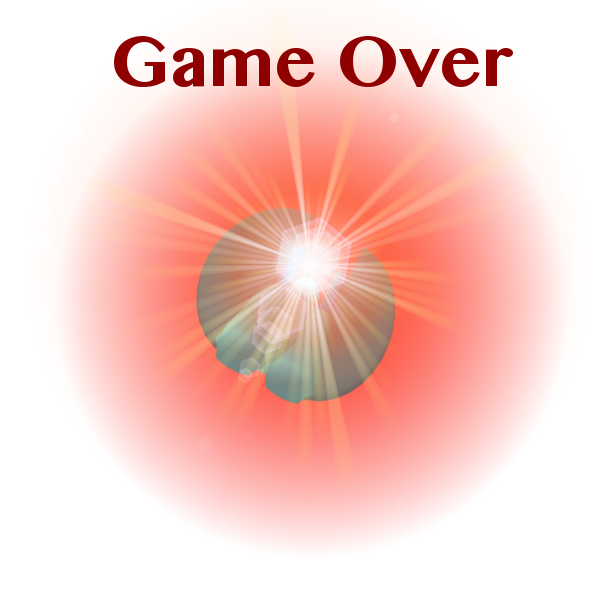
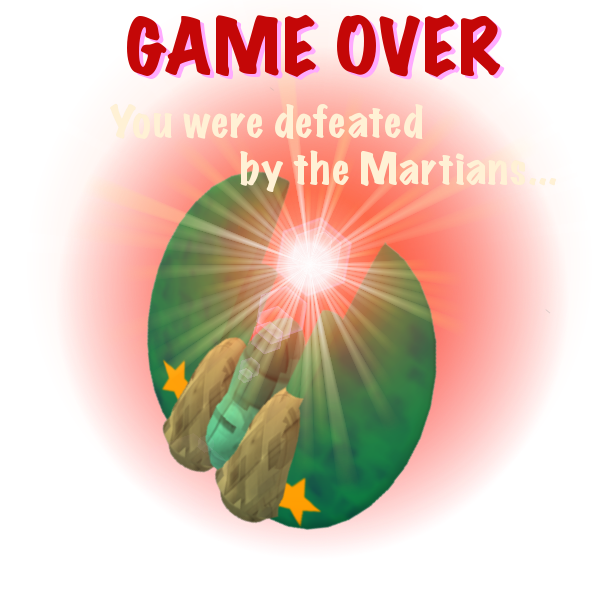
some updates on win/death screens

diff --git a/index.html b/index.html
@@ -48,7 +48,8 @@
 		        W: forward<br/>
 		        S: reverse <br/>
 		        Mouse: rotate<br/>
-		        Click: shoot
+		        Click: shoot<br/>
+		        T: on/off minimap
 		    </p>
 		</div>
 		<!--sidebar-->
@@ -111,7 +112,7 @@
 		                <p>World 3 - 200 crystals</p>
 		            </button>
 		            <button id = "win" class = "purchase" type="button" onclick="winScreen();">
-		                <p>End of War ! - 200 crystals</p>
+		                <p>Back to Earth ! - 200 crystals</p>
 		            </button>
 		            <div id="levelInfo">
 		            </div>
@@ -171,15 +172,14 @@
             </div>
             <div class="float">
                 <img src="resources/warp_gate.png" />
-            </div>
-		    
-		    
+            </div>		    
 		</div>
 		
 		
 	</div>
 	<!--deathscreen-->
     <div id = "deathScreen">
+        <img src="resources/deathScreen.png" />
         <div>
 			<button class="btnReload" type="button" onclick="location.reload()">Restart</button>
 		</div>
@@ -187,6 +187,7 @@
     
     <!--winscreen-->
     <div id = "winScreen">
+        <img src="resources/winScreen.png" />
         <div>
 			<button class="btnReload" type="button" onclick="location.reload()">Play Again</button>
 		</div>

diff --git a/style.css b/style.css
@@ -336,7 +336,7 @@ div#startMenu button#btnStart {
     display:none;
     width: 100%;
     height: 100%;
-    background: url("resources/deathScreen.png") no-repeat center #000;
+    background: #000;
     text-align: center;
 }
 
@@ -346,14 +346,15 @@ div#startMenu button#btnStart {
 	height: 50px;
 	font-size: 20px;
 	font-weight: bold;
-	margin-top: 550px;
+	padding: 10px;
 }
 
 #winScreen{
     display:none;
     width: 100%;
     height: 100%;
-    background: url("resources/winScreen.png") no-repeat center #000;
+/*     background: url("resources/winScreen.png") no-repeat center #000; */
+    background: #000;
     text-align: center;
 }
 

diff --git a/scripts/Game.js b/scripts/Game.js
@@ -255,6 +255,7 @@ function updateSidebar(){
 //used by updateSidebar()
 function updateUpgradeInfo(element, enable)
 {
+    
     var upgradedItem = document.getElementById(element);
     if(enable)
         upgradedItem.style.display = "block";
@@ -270,6 +271,8 @@ function updateGameState()
 
 function playerDeath()
 {
+    bgElement.pause();
+    
     var divContainer = document.getElementById("container");
 	divContainer.style.display = "none";
 	

diff --git a/ship_new.html b/ship_new.html
@@ -69,7 +69,7 @@
 				directionalLight.position.set( 100, 70, 50 ).normalize();
 				scene.add( directionalLight );
 				
-              new THREE.JSONLoader().load('mesh/ship2.js', function(geometry){
+              new THREE.JSONLoader().load('mesh/ship.js', function(geometry){
               var mesh = new THREE.Mesh( geometry, new THREE.MeshFaceMaterial());
              scene.add( mesh );
           }, 'mesh/images');

diff --git a/scripts/Bodies.js b/scripts/Bodies.js
@@ -68,7 +68,7 @@ listener.BeginContact = function (contact) {
         console.log("player is at the gate");
         gamePaused = true;
         atGate = true; 
-        alerts.innerHTML = "You reach the warp gate <br/> Press Z for level menu <br/> R to resume game";
+        alerts.innerHTML = "You reach the warp gate. <br/> Press Z for level menu <br/> R to resume game";
         //levelMenu();
     }
 }

diff --git a/scripts/Upgrades.js b/scripts/Upgrades.js
@@ -1,7 +1,5 @@
 //Selections in purchase menu
 
-//CURRENTLY: nothing happens if player purchases something twice, except wasting their resources
-// maybe we might want to add doubled speed/ weapon damage/ missiles etc (after the playtest)?
 
 function strafe(){
     //if not enough crystals
